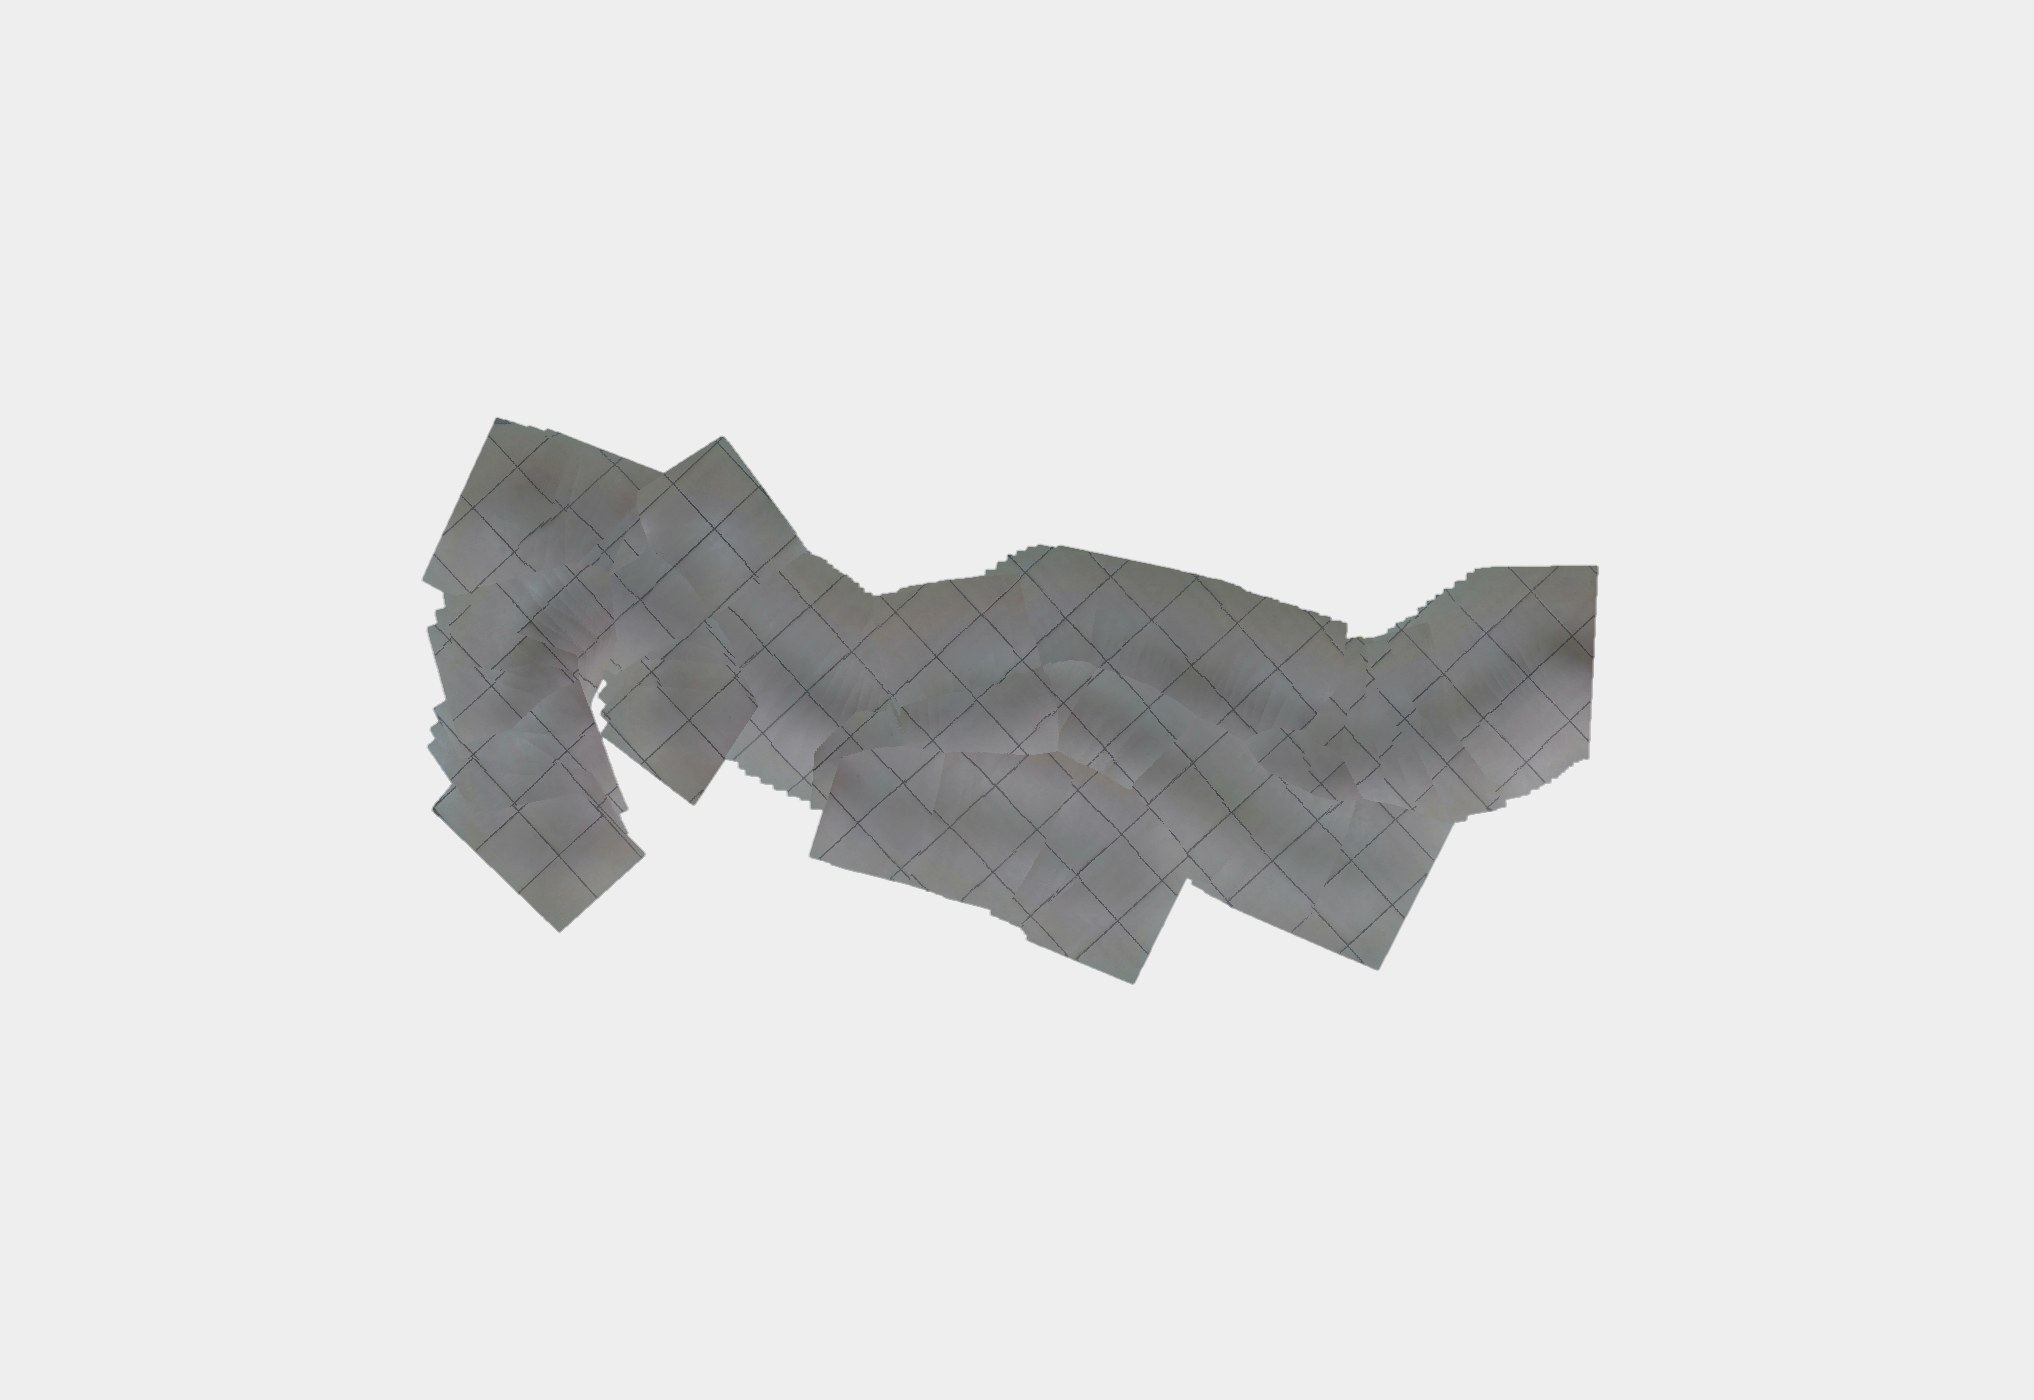
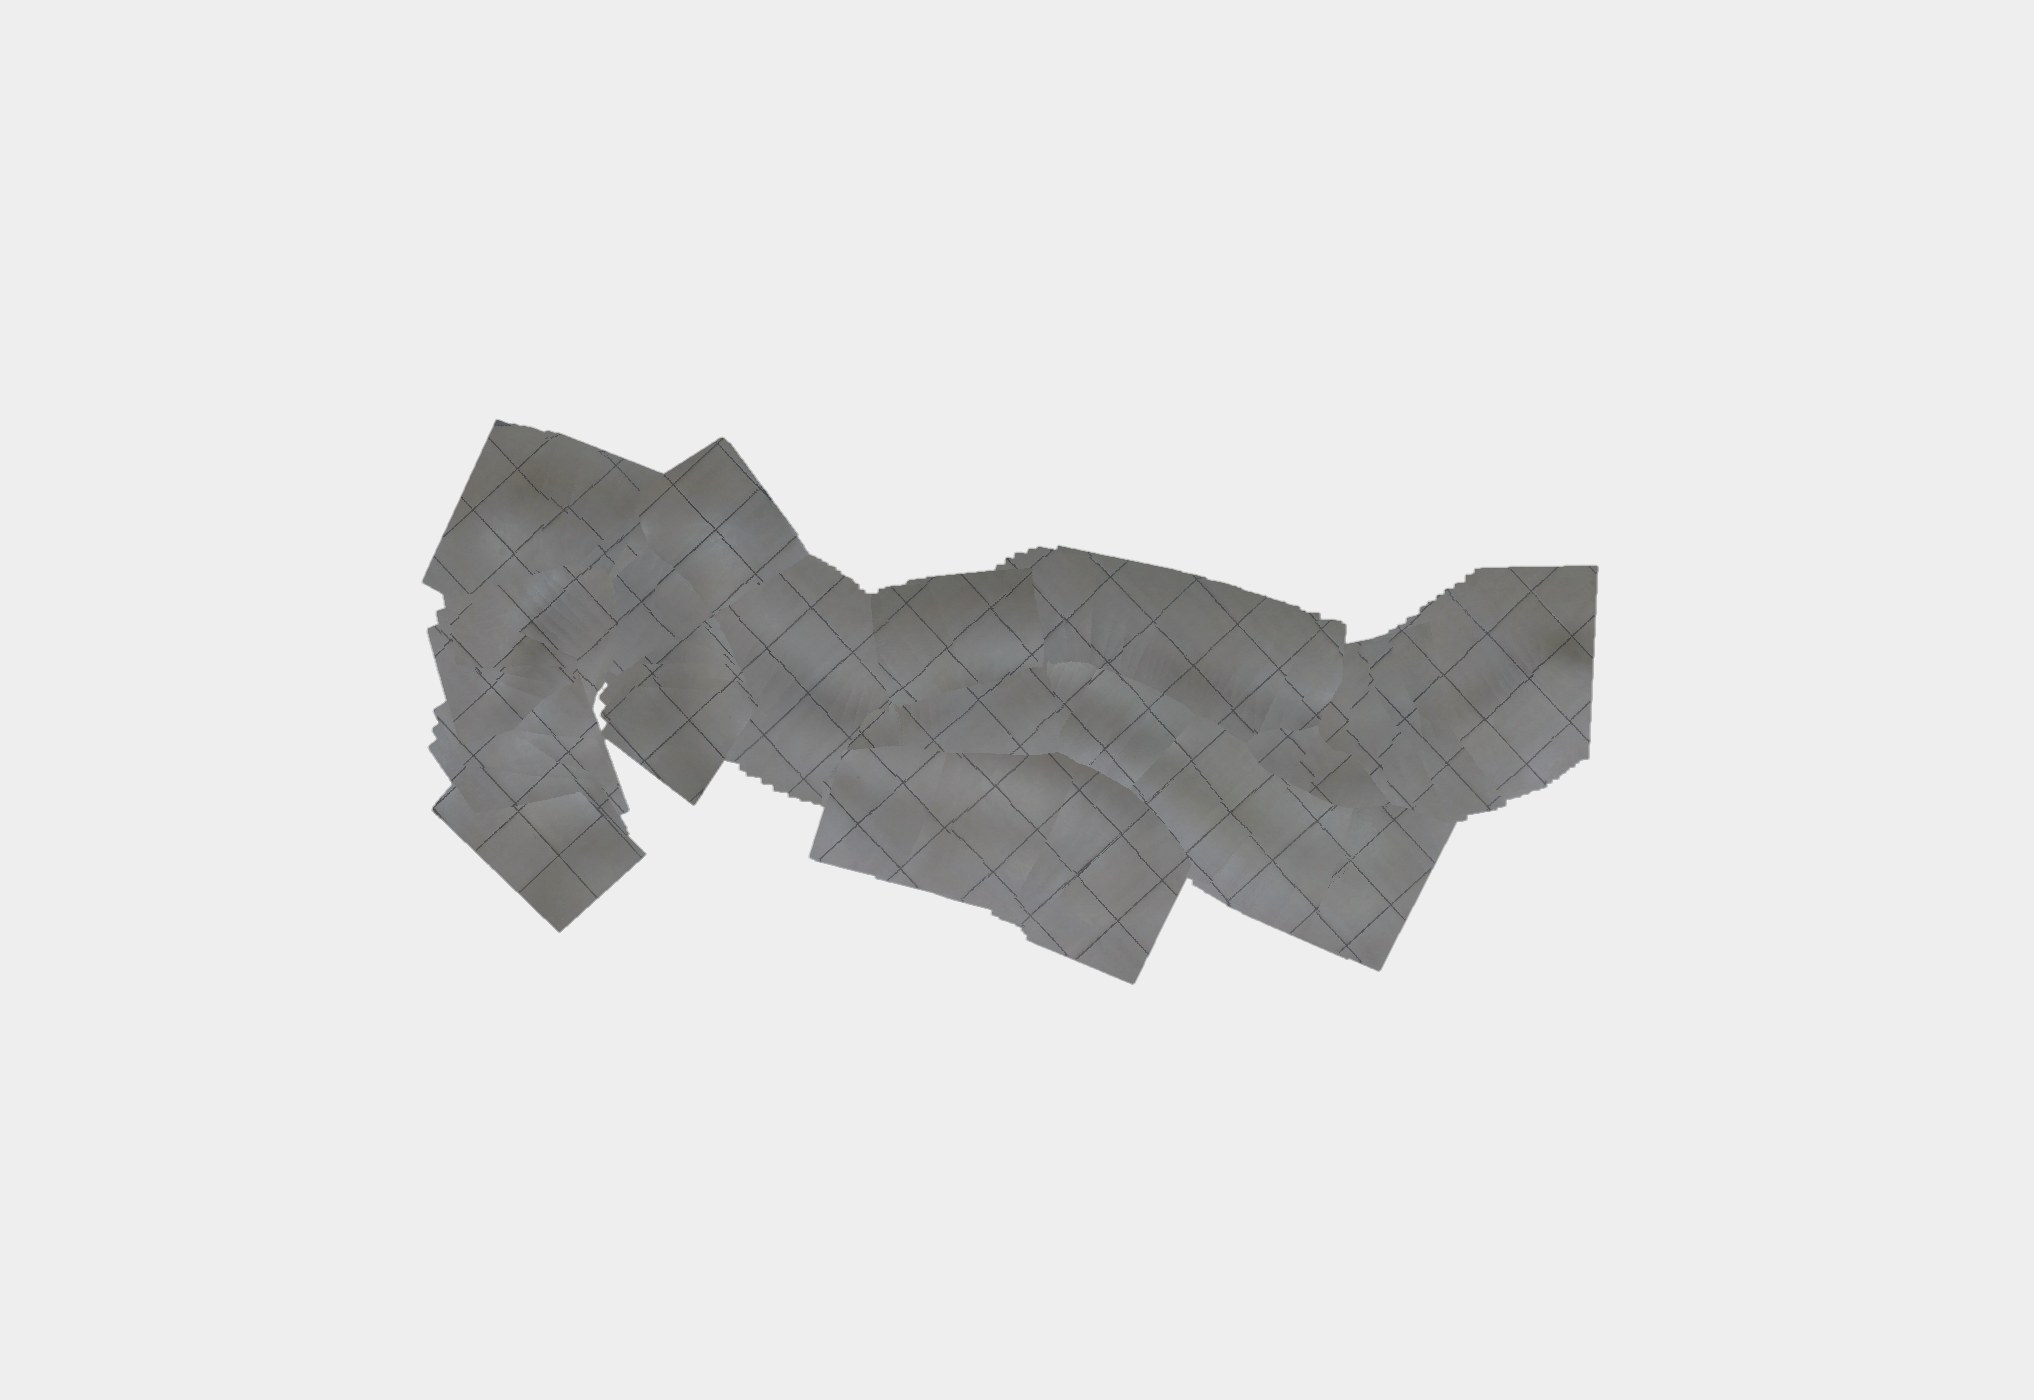
Inspection page: even out the light across each camera frame
Every frame is darker at its edges and has the arm's shadow in the same place,
so the stitched floor came out patchy. The mean of a run's driving frames is
that pattern; each frame is divided by it before it is laid.

diff --git a/tools/analysis/inspection_map.py b/tools/analysis/inspection_map.py
@@ -162,6 +162,29 @@ def two_ways(gl):
     return any(min(x, 180 - x) < 2 for x in d) and any(abs(x - 90) < 2 for x in d)
 
 
+def flat_field(bag, path, t_start, every=15):
+    """Per-pixel gain (H, W, 3) that evens out the light across the camera image. Every frame is darker
+    towards its edges and has the arm's shadow in the same place, so a page laid from many frames came
+    out as a quilt of light and dark wedges (2026-11-04). The mean of the frames taken while driving,
+    over a run, is that pattern without the floor's own texture."""
+    r = hm.open_bag(bag, [hm.COLOR])
+    acc, n, k = None, 0, 0
+    while r.has_next():
+        _, data, st = r.read_next(); k += 1
+        if k % every:
+            continue
+        if not path["straight"][min(np.searchsorted(path["t"], st * 1e-9 - t_start), len(path["t"]) - 1)]:
+            continue
+        c = deserialize_message(data, Image)
+        img = np.frombuffer(c.data, np.uint8).reshape(c.height, c.width, 3).astype(np.float32)
+        acc = img if acc is None else acc + img
+        n += 1
+    if n < 20:
+        return None
+    mean = cv2.GaussianBlur(acc / n, (0, 0), 15)
+    return np.clip(mean.mean(axis=(0, 1)) / np.maximum(mean, 1.0), 0.5, 2.0)
+
+
 def grid_direction(bag, path, planes, T_bc, T_dc, t_start):
     """First pass: the direction (deg, 0-90, map frame) of the floor's straight lines, the median over
     every frame that is laid down, or None on a floor without them. Decided before laying anything, so
@@ -342,6 +365,7 @@ def main():
                 allowed[max(b - r, 0):b + r, max(a - r, 0):a + r] = 1
 
     G = grid_direction(bag, path, planes, T_bc, T_dc, t_start)
+    flat = flat_field(bag, path, t_start)
     r = hm.open_bag(bag, [hm.COLOR, hm.CINFO])
     Kc = rays = wgt = uu = vv = None
     n = 0; frames = {}
@@ -408,6 +432,8 @@ def main():
         centre = np.array(to_px(*hm.pose_at(path, t)[:2], exact=True), float)      # the robot, turning point
         c = deserialize_message(data, Image)
         img = np.frombuffer(c.data, np.uint8).reshape(c.height, c.width, 3)
+        if flat is not None:
+            img = np.clip(img * flat, 0, 255).astype(np.uint8)
         rgb = img if c.encoding == "rgb8" else img[:, :, ::-1]
         # line the frame up with the page so far: SLAM is good to a few cm, which put one grout
         # line down two or three times. The correction carries over to the next frame.
